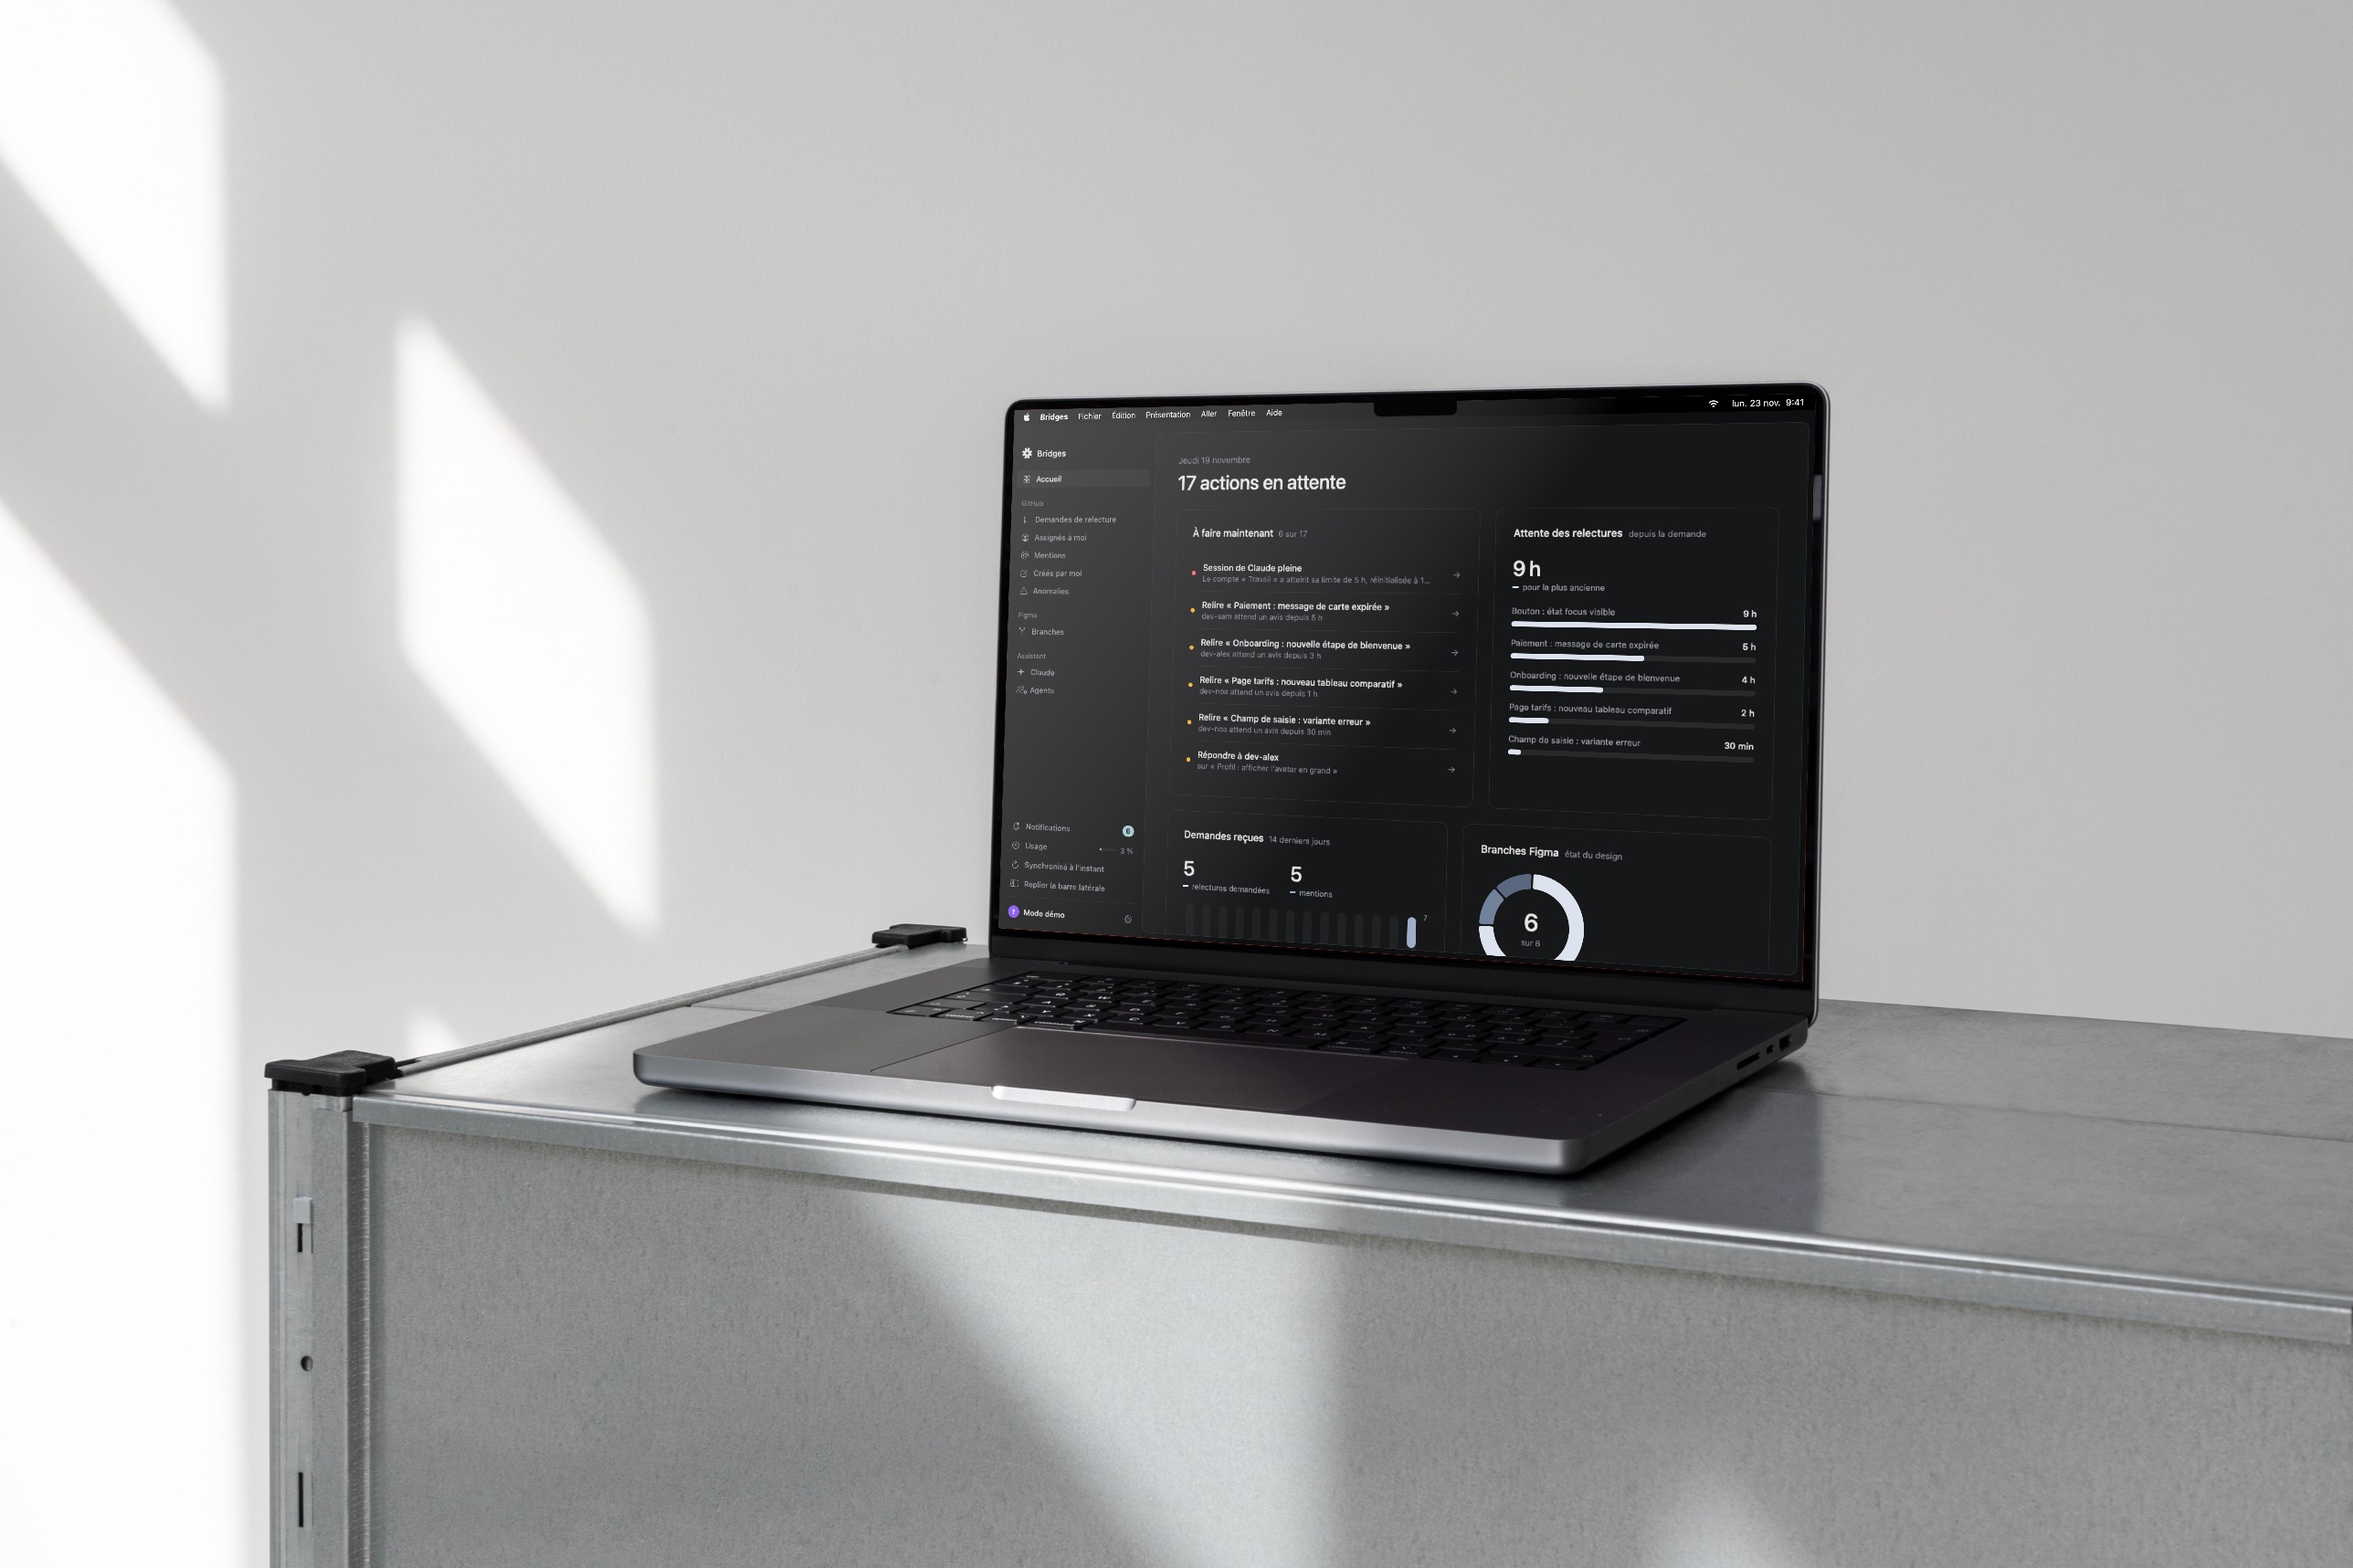
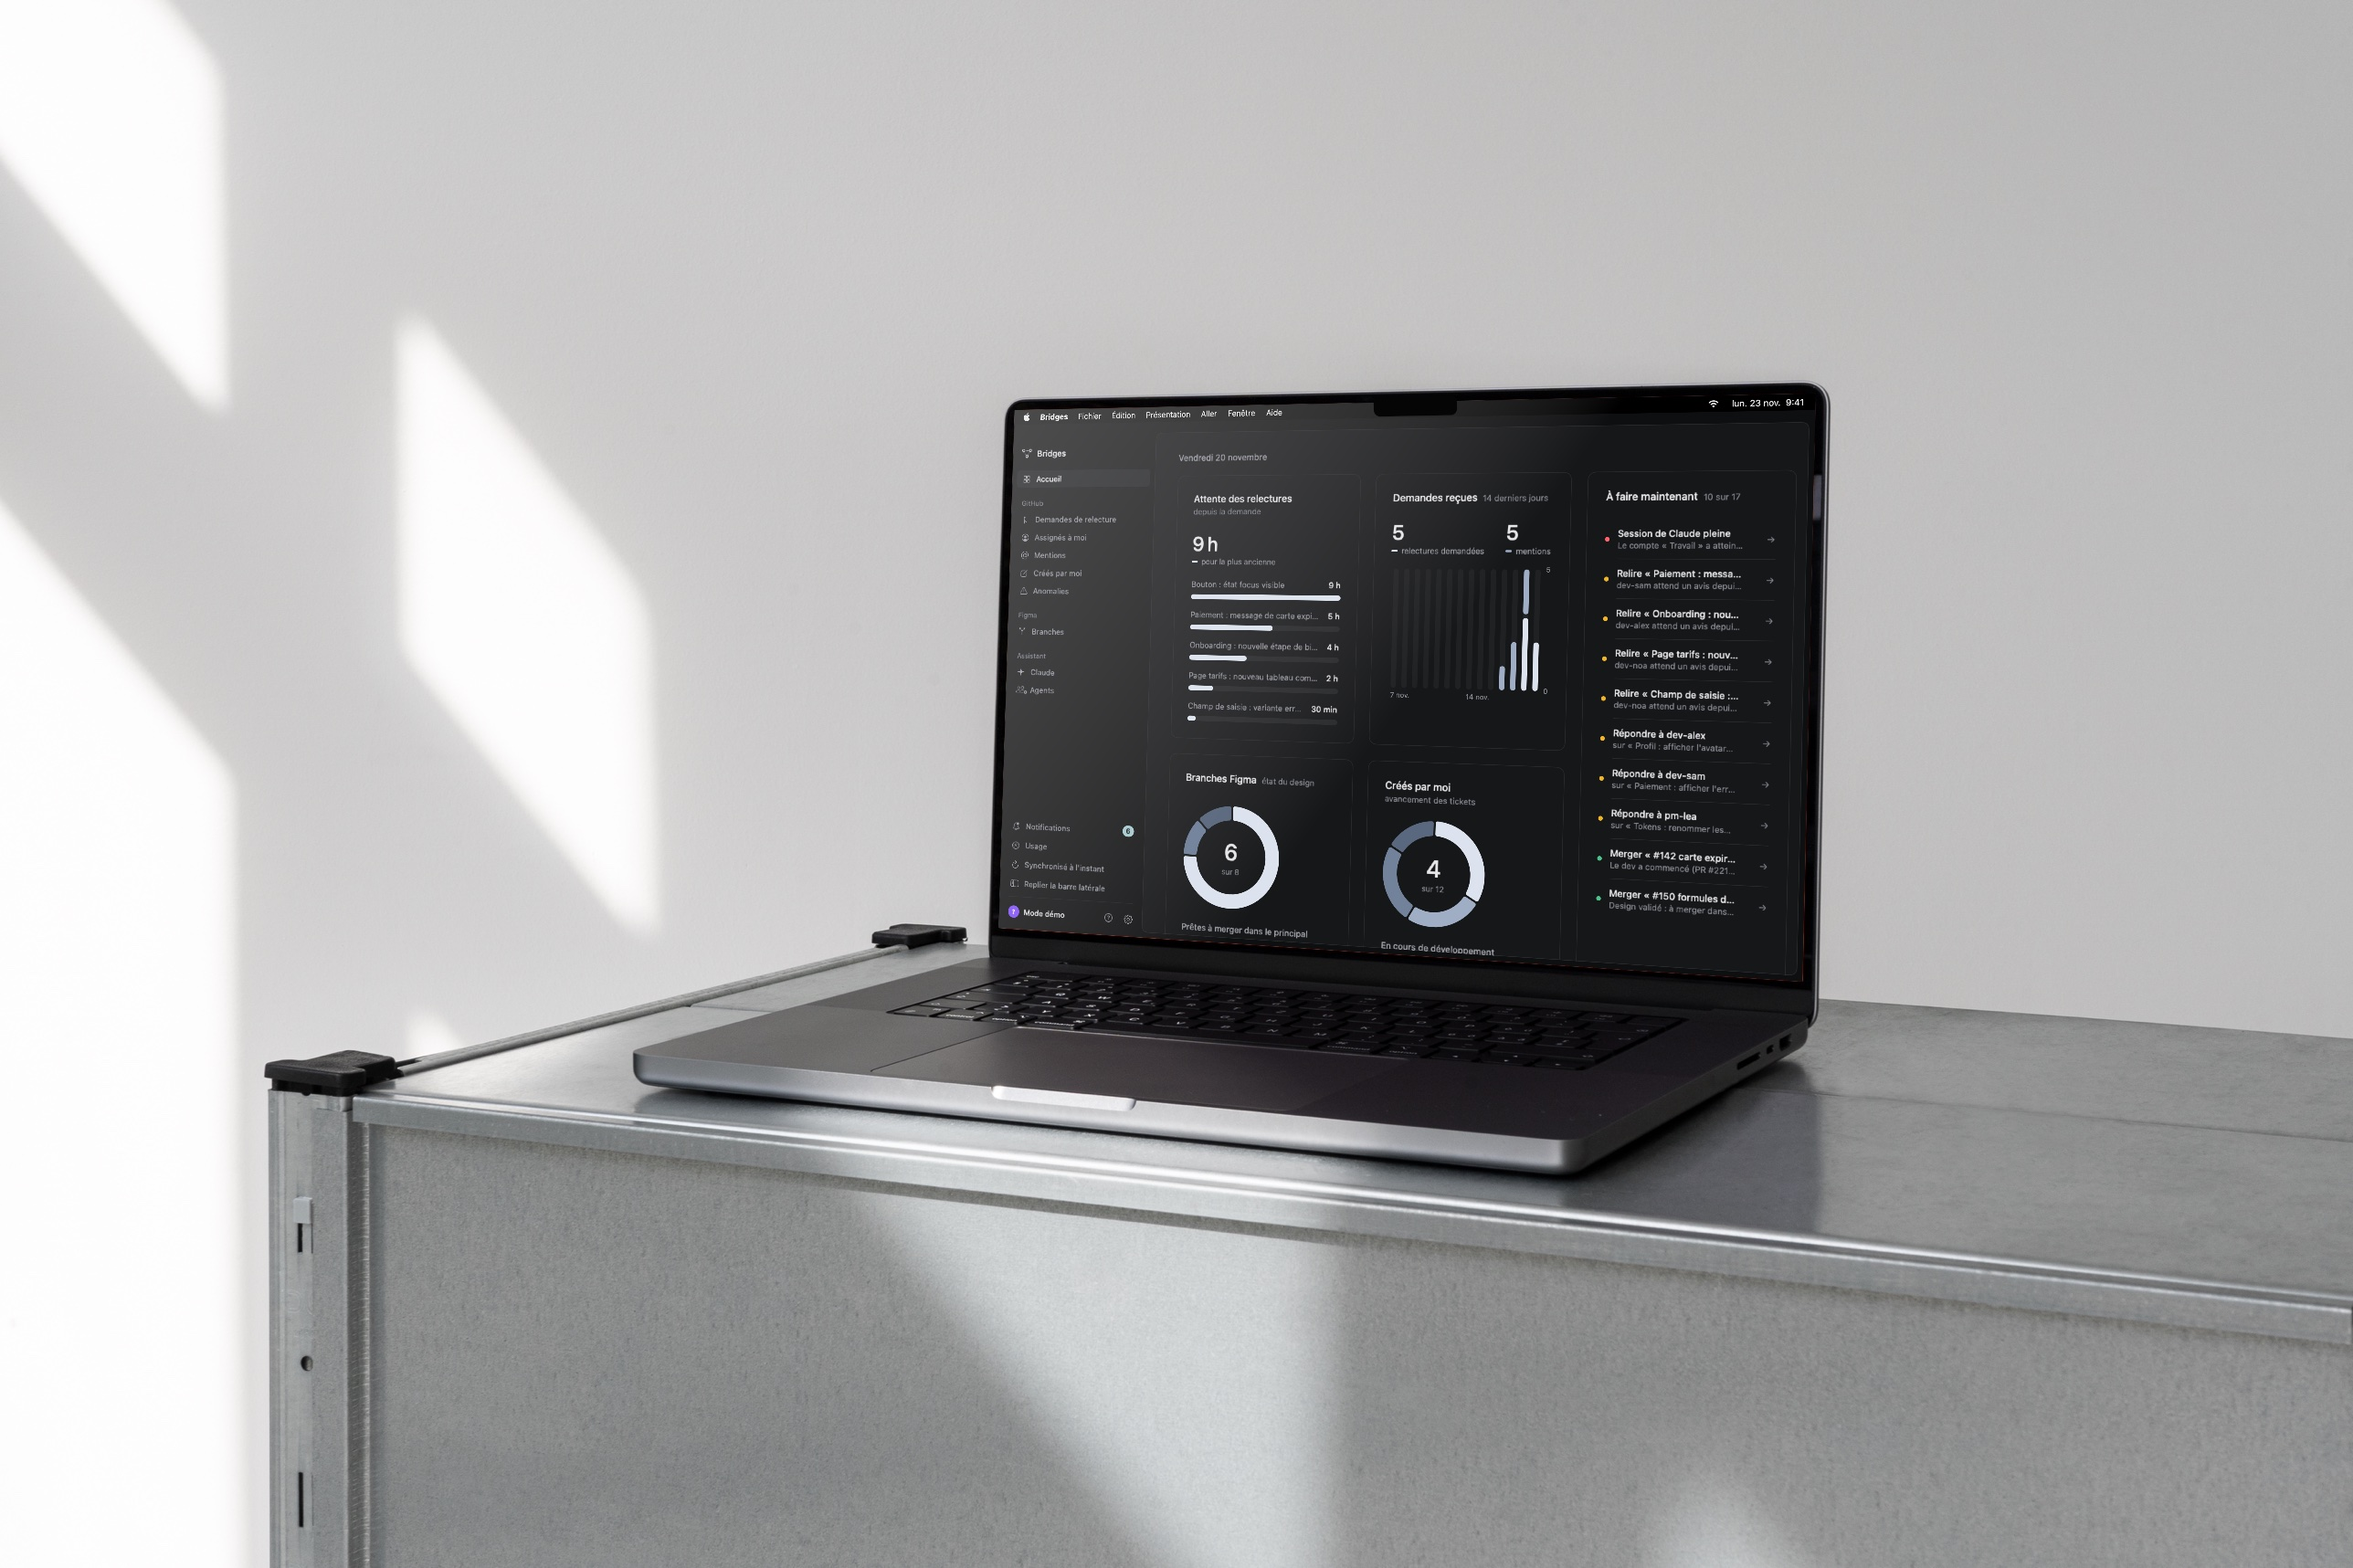
Page de présentation

Changed region(s): [[0.5901, 0.3087, 0.7453, 0.6174], [0.4969, 0.2778, 0.5901, 0.5865], [0.5901, 0.3087, 0.6211, 0.3395]]

diff --git a/README.md b/README.md
@@ -120,12 +120,17 @@ Réglages › Accessibilité donne accès aux réglages suivants :
 - **Contraste** : Standard, avec un rapport d'au moins 4,5:1 pour tous les textes (WCAG AA), ou Renforcé, avec un rapport d'au
   moins 7:1 (AAA) et des filets plus marqués.
 - **Réduction des animations** : suppression des transitions, rotations et reflets animés.
+- **Réduction de la transparence** : fond plus sombre derrière la palette de commandes et la fenêtre de mise à jour.
+- **Différenciation sans couleur** : les pastilles d'état prennent une forme distincte (urgent, à traiter, prêt).
 - **Liens soulignés** : identification des liens vers GitHub et Figma indépendamment de la couleur.
 - **Focus renforcé** : contour épais autour de l'élément sélectionné au clavier.
 - **Texte espacé** et **taille du texte** (standard, grand, très grand).
 
-Par défaut, Bridges applique les réglages d'accessibilité de macOS. Les boutons et les champs mesurent 40 px de haut ; chaque ligne
-de liste est restituée d'un seul tenant par VoiceOver.
+Par défaut, Bridges applique les réglages d'accessibilité de macOS. Les boutons et les champs mesurent 40 px de haut.
+
+Avec VoiceOver, chaque ligne de liste (relectures, tickets, branches, conversations, résultats de la palette) est restituée d'un
+seul tenant et s'ouvre comme un bouton ; les en-têtes de groupe sont des titres, repliables ; la séparation entre le contexte et
+les notes se règle avec les flèches ; les messages de confirmation sont annoncés.
 
 ## Installation
 
@@ -168,6 +173,13 @@ Réglages › Données détaille les informations lues par Bridges, celles trans
 (trousseau, `~/Library/Application Support/Bridges`, `~/Library/Caches/Bridges`), et permet de tout effacer. Aucune statistique ni
 aucun rapport n'est transmis à un tiers. Réglages › À propos indique la version et produit un diagnostic à transmettre en cas de
 problème (sans jeton, adresse e-mail ni contenu de ticket).
+
+## Aide
+
+Le [centre d'aide](https://bridges.works/aide) répond aux questions courantes (installation, connexions, Claude, problèmes
+fréquents) et reçoit les retours, sans inscription. Dans l'application, il s'ouvre depuis le menu Aide (⌘?), la palette de
+commandes ou Réglages › À propos. En cas de blocage : [hello@bridges.works](mailto:hello@bridges.works), avec le diagnostic de
+Réglages › À propos (bouton « Copier et écrire à l'assistance »).
 
 ---
 

diff --git a/CHANGELOG.md b/CHANGELOG.md
@@ -3,6 +3,13 @@
 Une version est publiée chaque lundi à 7 h. Chaque version est signée « Developer ID » et notarisée par Apple ; l'application
 propose elle-même son installation.
 
+## 1.12.0 — 20 novembre 2026
+
+- **Accueil en trois colonnes** : quatre graphiques sur deux rangées (attente des relectures, demandes reçues, branches Figma, tickets créés) et la liste « À faire maintenant » sur toute la hauteur de la troisième colonne. Le titre « N actions en attente » et la carte du forfait Claude disparaissent : la date suffit, et l'usage reste dans la barre latérale.
+- **Aide** : un centre d'aide en ligne, bridges.works/aide, s'ouvre depuis le menu Aide (⌘?), la palette de commandes, Réglages › À propos ou l'icône « ? » à côté des réglages, en bas de la barre latérale. Les retours s'y envoient sans inscription ; « Copier et écrire à l'assistance » joint le diagnostic à un e-mail prêt à compléter.
+- **Accessibilité** : « Réduire la transparence » et « Différencier sans couleur » suivent macOS et se règlent dans Réglages › Accessibilité ; les pastilles d'état prennent alors une forme distincte (urgent, à traiter, prêt). Avec VoiceOver, les branches, les conversations et les résultats de la palette se lisent d'un bloc, les en-têtes de groupe sont des titres repliables, la séparation entre le contexte et les notes se règle aux flèches, et les messages de confirmation sont annoncés.
+- **Textes** : les demandes d'accès au micro et à la dictée adoptent la formulation impersonnelle du reste de l'application.
+
 ## 1.11.0 — 19 novembre 2026
 
 - **Accueil épuré et réordonné** : la ligne des cinq chiffres clés disparaît. Sous le titre (« 17 actions en attente »)
